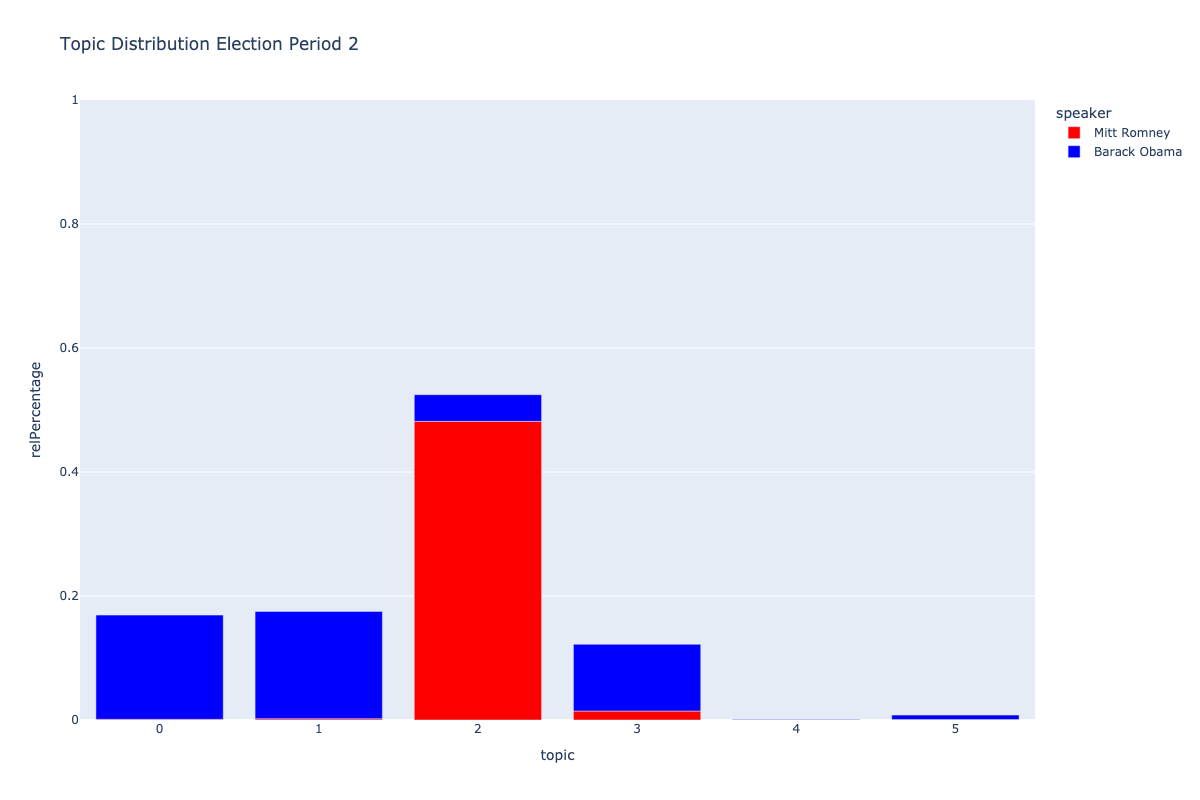
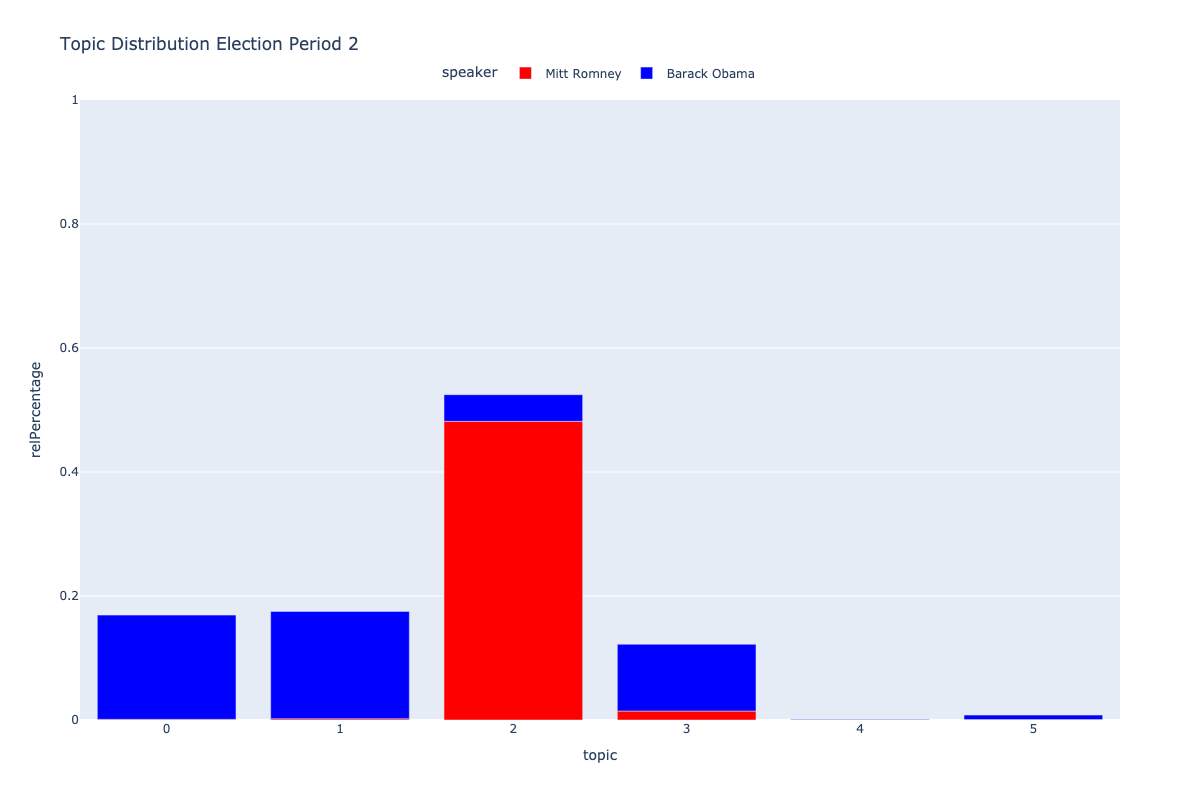
update topic model plots

diff --git a/analysis/topicModelling.py b/analysis/topicModelling.py
@@ -21,6 +21,16 @@ traceback.install()
 from analysis import loadMetadata, concatTables, getSentences, concatTexts
 
 
+COLOR_MAP = {
+    'Barack Obama': 'blue',
+    'John McCain': 'red',
+    'Mitt Romney': 'red',
+    'Hillary Clinton': 'blue',
+    'Donald J. Trump (1st Term)': 'red',
+    'Joseph R. Biden, Jr.': 'blue',
+    'Kamala Harris': 'blue'
+}
+
 
 # analyze topics - main topics for each document in the collection
 def analyse_topics(ldamodel, corpus, text) -> tuple[dict, ...]:
@@ -499,7 +509,7 @@ def authorTopicModelling(numTopics:int, stopwords:list[str], LOAD: bool = False)
     return None
 
 
-def authorTopicModellingPeriod(numTopics:int, stopwords:set[str]) -> None:
+def authorTopicModellingPeriod(numTopics:int, stopwords:set[str], save:bool = False) -> None:
     
     path = Path('corpus/tables')
     savepath = Path('analysis/topicModelling/topicsPerPeriod')
@@ -510,7 +520,9 @@ def authorTopicModellingPeriod(numTopics:int, stopwords:set[str]) -> None:
 
     metadataDF = loadMetadata()
 
-    extendedStopwords = {'comment', 'self', 'brown', 'lot', 'story', 'tonight', 'nomination', 'nominee', 'page', 'comment'}
+    extendedStopwords = {'comment', 'self', 'brown', 'lot', 'story', 'tonight', 'nomination', 'nominee', 
+                         'page', 'comment', 'desk', 'door', 'walz', 'michelle'
+                         }
 
     for period in metadataDF['period'].unique():
         periodDF = metadataDF[metadataDF['period'] == period]
@@ -551,20 +563,22 @@ def authorTopicModellingPeriod(numTopics:int, stopwords:set[str]) -> None:
 
 
         c_v = 0.0
-        while c_v < 0.45:
+        while c_v < 0.25:
             model, c_v, resultString = trainAuthorTopicModel(corpus, dictionary, author2doc, texts, numTopics)
-            print(f'{c_v=}')
-
-
-        model.save(str(savepathPeriod / f'AuthorTopicModel_period{period}.model'))
-
-        with open(savepathPeriod / f'AuthorTopicModel_period{period}.txt', 'w') as f:
-            f.write(resultString)
+            # print(f'{c_v=}')
+            print(resultString)
 
         fig = plotBarChart(model, period)
-        fig.write_image(str(savepathPeriod / f'AuthorTopicModel_period{period}.png'), height=800, width=1200)
+        if save:
+            model.save(str(savepathPeriod / f'AuthorTopicModel_period{period}.model'))
 
+            with open(savepathPeriod / f'AuthorTopicModel_period{period}.txt', 'w') as f:
+                f.write(resultString)
 
+            fig.write_image(str(savepathPeriod / f'AuthorTopicModel_period{period}.png'), height=800, width=1200)
+        else:
+            fig.show()
+        break
     # Step 5: Examine a specific topic
     # Get the top words for topic 0
     # print("Top words for topic 0:")
@@ -579,7 +593,7 @@ def trainAuthorTopicModel(corpus, dictionary, author2doc, texts, numTopics) -> t
         author2doc=author2doc,
         update_every=1,
         chunksize=100,
-        iterations=500,
+        iterations=10_000,
         passes=30,
         alpha=0.55,
         eta=0.1,
@@ -604,8 +618,18 @@ def plotBarChart(model, period):
             df.loc[len(df)] = [author, *topic]
         
     df['relPercentage'] = df['percentage'] / df['speaker'].nunique()
-    fig = px.bar(df, 'topic', 'relPercentage', color='speaker', range_y=(0,1), color_discrete_sequence=['red', 'blue'],
+    fig = px.bar(df, 'topic', 'relPercentage', color='speaker', range_y=(0,1), color_discrete_map=COLOR_MAP,
              title=f'Topic Distribution Election Period {period}')
+
+    fig.update_layout(
+        legend=dict(
+            orientation='h',
+            yanchor='bottom',
+            y=1.02,
+            xanchor='center',
+            x=0.5
+        )
+    )
 
     return fig
 
@@ -800,7 +824,7 @@ if __name__ == '__main__':
     # topicModellingPerSpeaker(numTopics, stopwords)
     # topicModellingPerPeriod2(numTopics, stopwords, LOAD=True)
     # authorTopicModelling(numTopics, stopwords, LOAD=False)
-    authorTopicModellingPeriod(numTopics, stopwords)
+    # authorTopicModellingPeriod(numTopics, stopwords)
 
     # ensembleTopicModelling(numTopics)
 

diff --git a/preprocessing/visualization.py b/preprocessing/visualization.py
@@ -121,8 +121,9 @@ class Plotter():
         )
 
         fig.update_traces(textinfo='label+value',
-                        insidetextorientation='horizontal',
+                        insidetextorientation='radial',
                         rotation=90,
+                        textfont=dict(size=18)
         )
         
         fig.update_layout(title={'text': 'Speeches per Candidate',
@@ -219,4 +220,5 @@ if __name__ == '__main__':
 
     plotter = Plotter()
 
-    plotter.plotAll()
+    # plotter.plotAll()
+    plotter.plotSpeechesPerCandidate(show=False)

diff --git a/analysis/decisionTree.py b/analysis/decisionTree.py
@@ -67,13 +67,8 @@ def renderDecisionTree(tree, y) -> None:
 
 
 def trainTreeClassifier(df:pd.DataFrame) -> sklearn.tree.DecisionTreeClassifier:
-
-
-    
-
-
-
     return treeClf
+
 
 
 if __name__ == '__main__':
